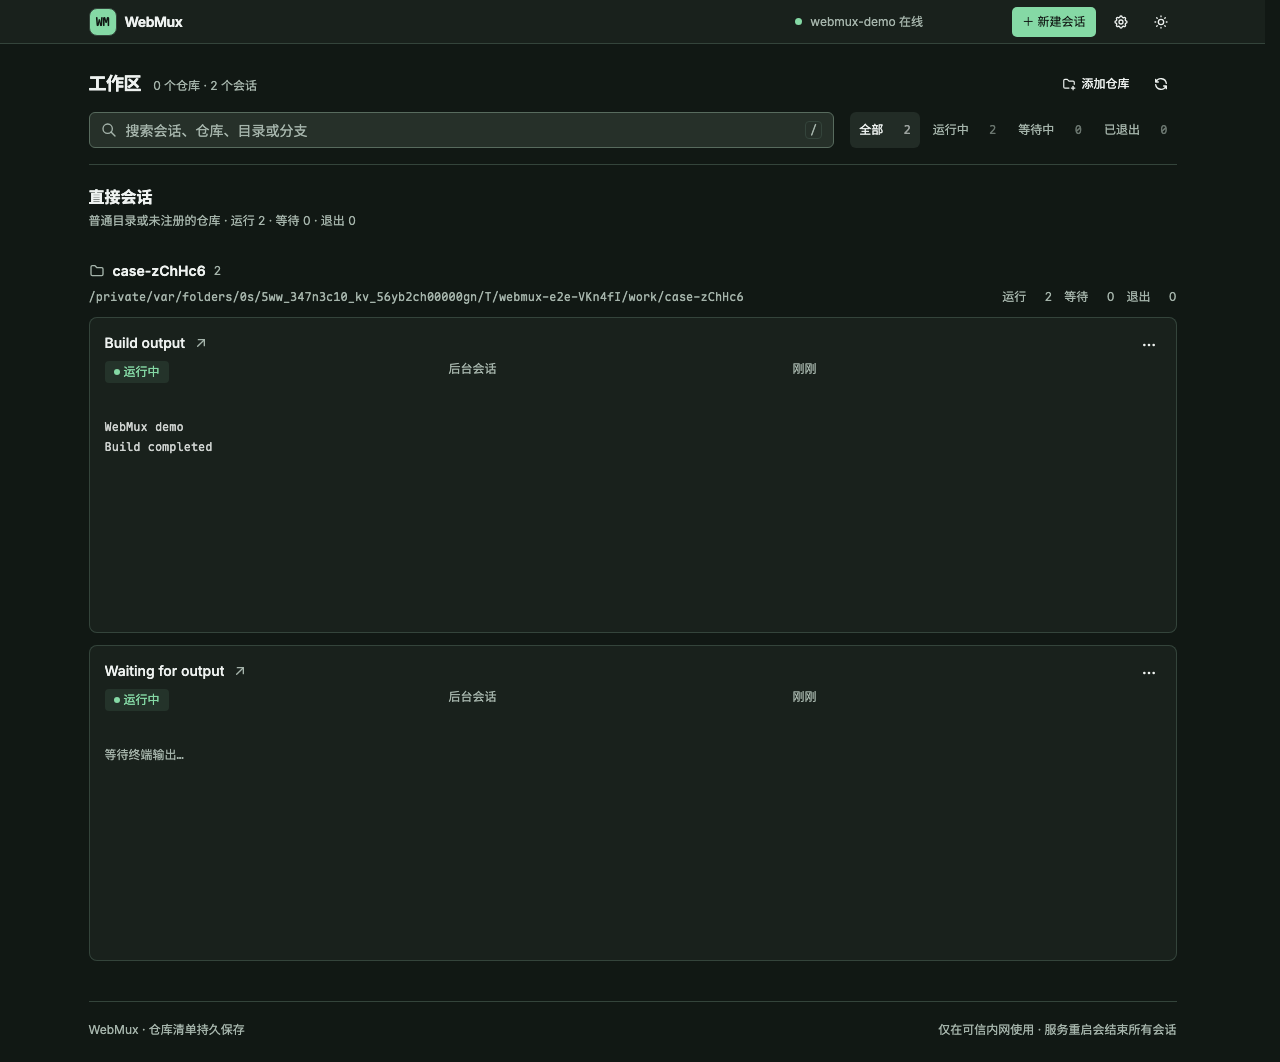
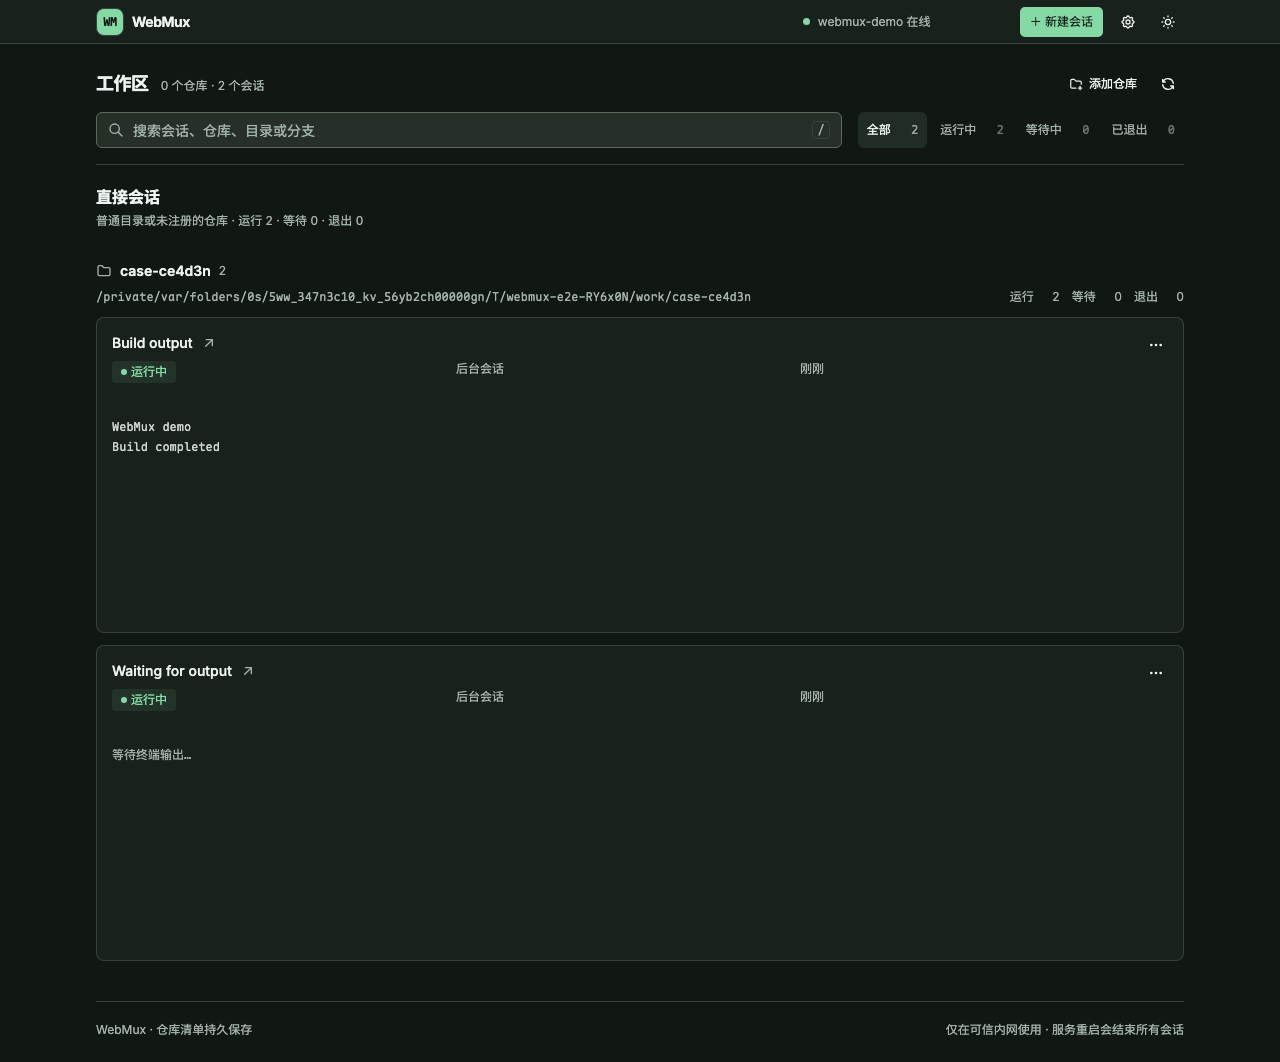
fix(web): reserve workspace track across macOS scrollbar modes
Keep a consistent desktop track when macOS switches native scrollbar mode
after paint. Scope the custom track to the workspace and refresh screenshots.

diff --git a/web/src/styles.css b/web/src/styles.css
@@ -35,6 +35,19 @@
     overflow-y: scroll;
     scrollbar-gutter: stable;
   }
+  @media (pointer: fine) {
+    /* macOS can switch native scrollbar modes after the first paint. A
+       consistently sized custom track keeps the workspace width unchanged. */
+    html:has(.workspace-page)::-webkit-scrollbar {
+      width: 16px;
+    }
+    html:has(.workspace-page)::-webkit-scrollbar-thumb {
+      border: 4px solid transparent;
+      border-radius: 999px;
+      background: var(--muted-foreground);
+      background-clip: padding-box;
+    }
+  }
 }
 
 .font-mono,

diff --git a/docs/performance.md b/docs/performance.md
@@ -22,7 +22,7 @@
 
 首次启动配置与仓库读取最多等待 1 秒；超时会中止初次请求、显示已有会话并提供重试入口。这样慢仓库不会长时间阻挡终端，也不会在超时后突然按迟到的仓库信息重新分组。
 
-工作区根区域保留纵向滚动轨道并设置稳定 gutter；全屏终端继续由其原有生命周期控制 overflow。这样也覆盖只设置 `scrollbar-gutter: stable` 仍不能为 custom/overlay 滚动条预留空间的情况，并避免影响独立组件和其他页面的滚动区域。
+工作区根区域保留纵向滚动轨道并设置稳定 gutter；精确指针设备使用固定宽度的 WebKit 滚动轨道，防止 macOS 在首屏绘制后切换原生滚动条模式时改变内容宽度。全屏终端继续由其原有生命周期控制 overflow。这也避免影响独立组件和其他页面的滚动区域。
 
 ## 限制
 
